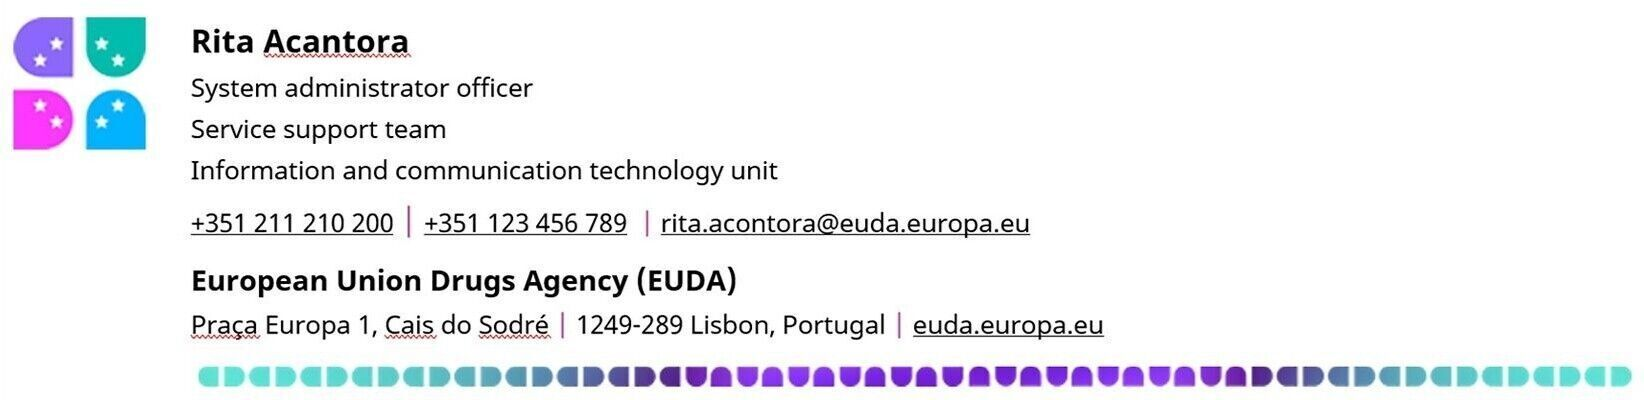
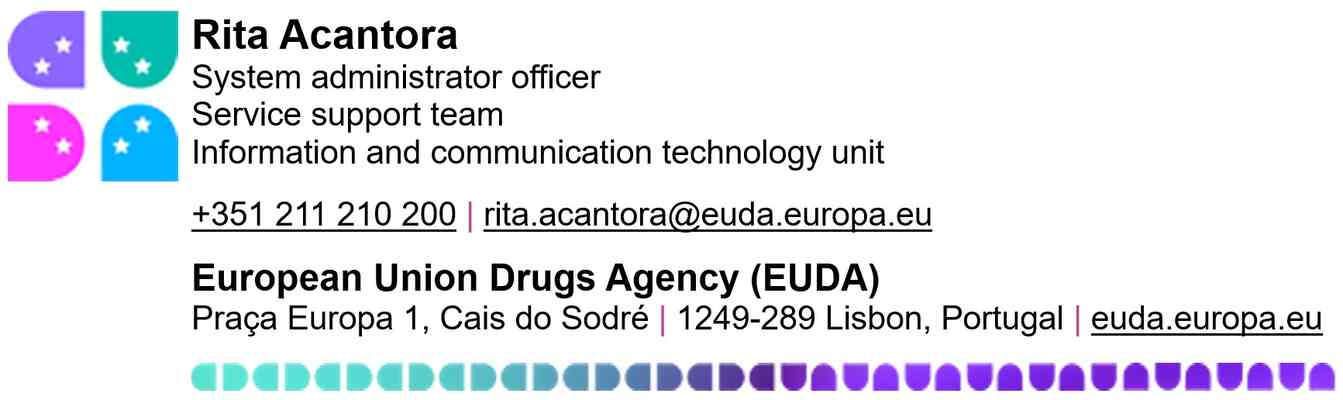
chore: update signature images
chore: make signature banner scroll from right to left instead of reverse

refactor: Update checklinks logic to avoid bot detection

diff --git a/assets/css/app.scss b/assets/css/app.scss
@@ -245,9 +245,11 @@ h6 {
 }
 
 /* Keep direction handling */
+/*
 .signature-scrolling-track.is-animating {
   animation-direction: reverse;
 }
+*/
 
 // Button pulse animation
 @keyframes pulse {
